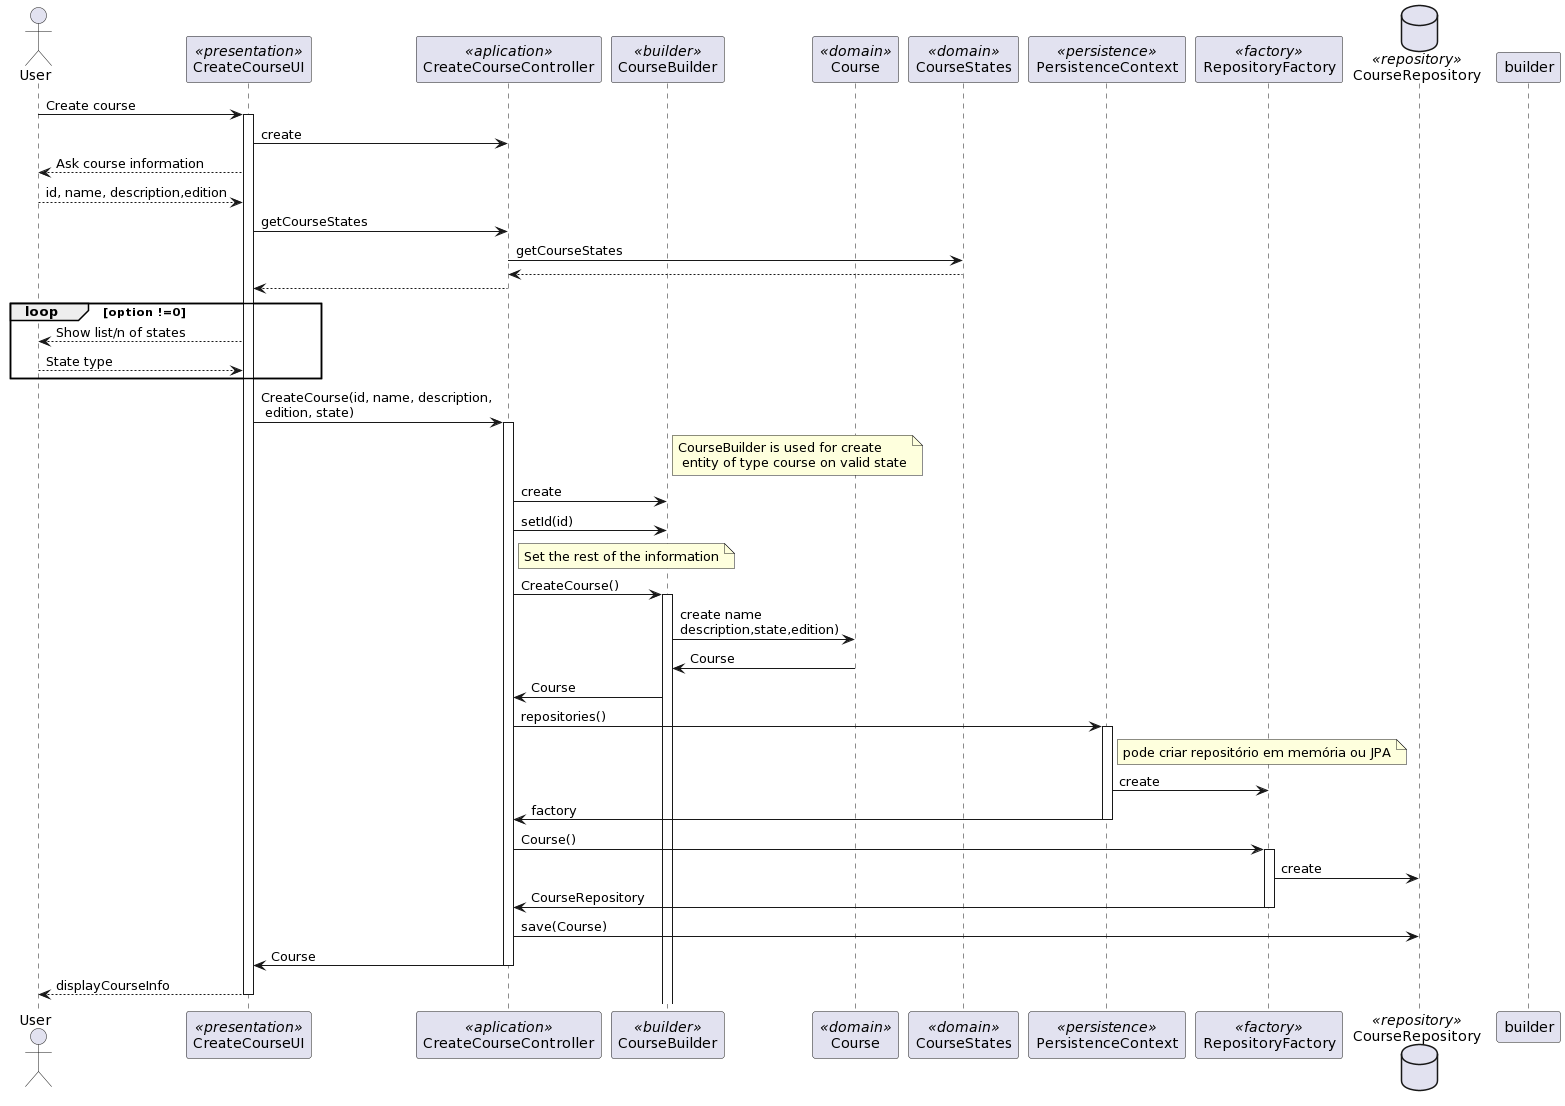
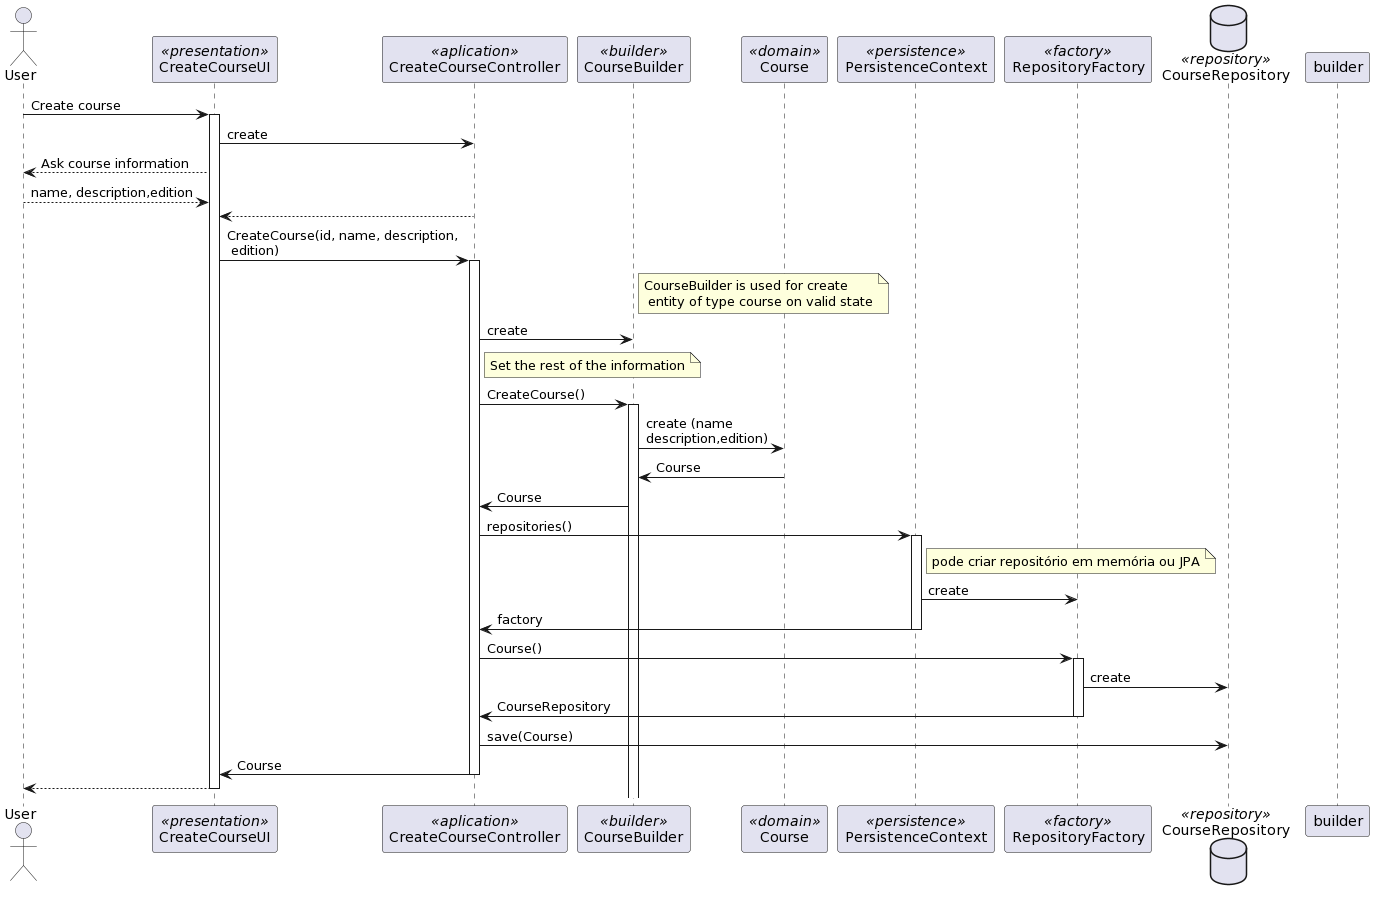
[SPRINTB][US1012] The documentation has been finalized, the US is finished

diff --git a/course.application/src/test/java/courseTest.java b/course.application/src/test/java/courseTest.java
@@ -13,15 +13,14 @@ public class courseTest {
     private String description2 = "Description 2";
     private String edition1 = "2022-2023";
     private String edition2 = "2021-2022";
-    private String state1 = "Open";
-    private String state2 = "Close";
+    private String state1 = "Close";
 
     private Course course1 = new CourseBuilder().descriptioned(Description.valueOf(description1)).named(Designation.valueOf(name1))
-            .edition(CourseEdition.valueOf(edition1)).state(CourseState.valueOf(state1)).build();
+            .edition(CourseEdition.valueOf(edition1)).build();
     private Course course2 = new CourseBuilder().descriptioned(Description.valueOf(description2)).named(Designation.valueOf(name2))
-            .edition(CourseEdition.valueOf(edition2)).state(CourseState.valueOf(state2)).build();
+            .edition(CourseEdition.valueOf(edition2)).build();
     private Course course3 = new CourseBuilder().descriptioned(Description.valueOf(description2)).named(Designation.valueOf(name2))
-            .edition(CourseEdition.valueOf(edition2)).state(CourseState.valueOf(state2)).build();
+            .edition(CourseEdition.valueOf(edition2)).build();
 
 
     @Test
@@ -45,7 +44,7 @@ public class courseTest {
     @Test
     public void testIfStateIsCorrect() {
         assertEquals(state1, course1.state().toString());
-        assertEquals(state2, course3.state().toString());
+        assertEquals(state1, course3.state().toString());
     }
 
     @Test

diff --git a/course.domain/src/main/java/eCourse/domain/CourseBuilder.java b/course.domain/src/main/java/eCourse/domain/CourseBuilder.java
@@ -14,7 +14,6 @@ public class CourseBuilder implements DomainFactory<Course> {
 
     private CourseEdition edition;
 
-    private CourseState state;
 
     public CourseBuilder named(final Designation name){
         this.name = name;
@@ -31,10 +30,6 @@ public class CourseBuilder implements DomainFactory<Course> {
         return this;
     }
 
-    public CourseBuilder state(final CourseState state){
-        this.state = state;
-        return this;
-    }
     private Course buildOrThrow() {
         // we will create the actual instance inside the builder during the building
         // process, but that is hidden from the client code. conceptually, the client
@@ -42,8 +37,8 @@ public class CourseBuilder implements DomainFactory<Course> {
         if (theCourse != null) {
             return theCourse;
         }
-        if (name != null && description != null && edition != null && state != null) {
-            theCourse = new Course(name, description,edition,state);
+        if (name != null && description != null && edition != null) {
+            theCourse = new Course(name, description,edition);
             return theCourse;
         }
         throw new IllegalStateException();

diff --git a/course.application/src/main/java/eCourse/course/application/CreateCourseController.java b/course.application/src/main/java/eCourse/course/application/CreateCourseController.java
@@ -30,10 +30,10 @@ public class CreateCourseController {
     }
 
     @Transactional
-    public Course createCourse (final String name, final String edition, final String description, final String state){
+    public Course createCourse (final String name, final String edition, final String description){
 
         final Course newCourse = new CourseBuilder().descriptioned(Description.valueOf(description)).named(Designation.valueOf(name))
-                .edition(CourseEdition.valueOf(edition)).state(CourseState.valueOf(state)).build();
+                .edition(CourseEdition.valueOf(edition)).build();
         return PersistenceContext.repositories().courses().save(newCourse);
     }
 

diff --git a/course.domain/src/main/java/eCourse/domain/Course.java b/course.domain/src/main/java/eCourse/domain/Course.java
@@ -27,12 +27,12 @@ public class Course implements AggregateRoot<Designation> {
     @Embedded
     private CourseState state;
 
-    protected Course (final Designation name, final Description description, final CourseEdition edition, CourseState state){
-        Preconditions.noneNull(name,description,edition,state);
+    protected Course (final Designation name, final Description description, final CourseEdition edition){
+        Preconditions.noneNull(name,description,edition);
 
         this.name = name;
         this.edition = edition;
-        this.state= state;
+        this.state= new CourseState("Close");
         this.description = description;
     }
 

diff --git a/eCourse.bootstrappers/src/main/java/eCourse/infrastructure/bootstrapers/demo/CourseBootstrapper.java b/eCourse.bootstrappers/src/main/java/eCourse/infrastructure/bootstrapers/demo/CourseBootstrapper.java
@@ -17,7 +17,7 @@ public class CourseBootstrapper implements Action {
 
     private boolean RegisterCourse(final String description, final String name, final String edition, final String state){
         final Course newCourse = new CourseBuilder().descriptioned(Description.valueOf(description)).named(Designation.valueOf(name))
-                .edition(CourseEdition.valueOf(edition)).state(CourseState.valueOf(state)).build();
+                .edition(CourseEdition.valueOf(edition)).build();
         PersistenceContext.repositories().courses().save(newCourse);
         return true;
     }

diff --git a/eCourse.app.backoffice.console/src/main/java/eCourse/app/backoffice/console/presentation/courses/CreateCourseUI.java b/eCourse.app.backoffice.console/src/main/java/eCourse/app/backoffice/console/presentation/courses/CreateCourseUI.java
@@ -13,11 +13,8 @@ public class CreateCourseUI extends AbstractUI {
         final String edition = Console.readNonEmptyLine("Edition","The edition should not be empty");
         final String description = Console.readNonEmptyLine("Description","The description should not be empty");
 
-        // this is a default state for when create a course
-        String state = "Open";
 
-
-        theController.createCourse(name,edition,description,state);
+        theController.createCourse(name,edition,description);
         return false;
     }
 

diff --git a/eCourse.app.backoffice.console/src/main/java/eCourse/app/backoffice/console/presentation/courses/CoursesPrinter.java b/eCourse.app.backoffice.console/src/main/java/eCourse/app/backoffice/console/presentation/courses/CoursesPrinter.java
@@ -6,7 +6,7 @@ import eapli.framework.visitor.Visitor;
 public class CoursesPrinter implements  Visitor<Course> {
     @Override
     public void visit(final Course visitee) {
-        System.out.printf("%-20s%-20s%-20s%-4s", visitee.designation(), visitee.edition(),
+        System.out.printf("%-39s%-20s%-40s%-4s", visitee.designation(), visitee.edition(),
                 visitee.description(), visitee.state());
     }
 }

diff --git a/eCourse.app.backoffice.console/src/main/java/eCourse/app/backoffice/console/presentation/courses/ListCoursesUI.java b/eCourse.app.backoffice.console/src/main/java/eCourse/app/backoffice/console/presentation/courses/ListCoursesUI.java
@@ -27,7 +27,7 @@ public class ListCoursesUI extends AbstractListUI<Course> {
 
     @Override
     public String listHeader() {
-        return String.format("# %-20s%-20s%-20s%-4s", "NAME", "EDITION", "DESCRIPTION", "STATE");
+        return String.format("# %-40s%-20s%-40s%-4s", "NAME", "EDITION", "DESCRIPTION", "STATE");
     }
 
     @Override

diff --git a/docs/SPRINT B/US1002- Create a Course/readme.md b/docs/SPRINT B/US1002- Create a Course/readme.md
@@ -17,53 +17,95 @@
 
 **input Data:**
 * Typed Data:
-    * id
     * name
     * description
-    * state
     * edition
   
 **Output Data:**
 * Course is created and save on repository
 
+## Class diagram
+![a class diagram](cd-1002.png "A Class Diagram")
+## Use case diagram
+![use case diagram](uc-1002.png "A Use Case Diagram")
+## System sequence diagram
+![use case diagram](ssd-1002.png "A system sequence Diagram")
 ## 4. Design
 
 *In this sections, the team should present the solution design that was adopted to solve the requirement. This should include, at least, a diagram of the realization of the functionality (e.g., sequence diagram), a class diagram (presenting the classes that support the functionality), the identification and rational behind the applied design patterns and the specification of the main tests used to validade the functionality.*
 *Rational*
 
-| Interaction ID | Question: Which class is responsible for... | Answer| Justification (with patterns)|
-|:---------------|:--------------------------------------------|:------|:-----------------------------|
-| Step 1| ... interacting with the actor?             | CreateCourseUI| |
-| | ... coordinating the US?                    |CreateCourseController| |
-| Step 2| Create Course?| CourseBuilder| Create a course on a valid state|
-|Step 3| Saving the course| PercistenceContext| |
-|Step 4| show course information for user| CreateCourseUI| |
+| Interaction ID | Question: Which class is responsible for... | Answer                                      | Justification (with patterns)|
+|:---------------|:--------------------------------------------|:--------------------------------------------|:-----------------------------|
+| Step 1| ... interacting with the actor?             | CreateCourseUI                              | |
+| | ... coordinating the US?                    | CreateCourseController                      | |
+| Step 2| Create Course?| CourseBuilder                               | Create a course on a valid state|
+|Step 3| Saving the course| CreateCourseController / PersistenceContext | |
+|Step 4| show course information for user| CreateCourseUI                              | |
 
 
 
 ### 4.1. Realization
 
-### 4.2. Class Diagram
+### 4.2. Sequence diagram
 
-![a class diagram](sd-1002.png "A Class Diagram")
+![a sequence diagram](sd-1002.png "A Sequence Diagram")
 
 ### 4.3. Applied Patterns
 
+Na implementacao desta US foram utilizados os seguintes padroes DDD:
+- **Factory** : A fabrica "Repository factory" e responsavel por criar instancias do repositorio "CourseRepository"
+- **Builder** : Ao utilizar o "CourseBuilder" garanto que o objecto curso e sempre criado num estado valido.
+- **Repository** : O "CourseRepository" e responsavel por persistir os dados na base de dados.
+- **Entity** : O "Course" e uma entidade que tem atributos propios ("name, state, edition e description).
 ### 4.4. Tests
 
-**CreateCourseWithoutId:** *Verifies that it is not possible to create a Course without id.*
-**CreateCourseWithoutName:** *Verifies that it is not possible to create a Course without name.*
-**CreateCourseWithoutDescription:** *Verifies that it is not possible to create a Course without description.*
-**CreateCourseWithoutEdition:** *Verifies that it is not possible to create a Course without edition.*
-**CreateCourseWithoutState:** *Verifies that it is not possible to create a Course without state.*
-**CreateCourseWithAllParameters:** *Verifies that it is possible to create a Course with all parameters fill.*
-
+**testIfDesignationIsCorrect:** *Checks that the course name is correct.*
 
 ```
-@Test(expected = IllegalArgumentException.class)
-public void ensureNullIsNotAllowed() {
-	Example instance = new Example(null, null);
-}
+    @Test
+    public void testIfDesignationIsCorrect() {
+        assertEquals(name1, course1.designation().toString());
+        assertEquals(name2, course3.designation().toString());
+    }
+````
+
+**testIfDescriptionIsCorrect:** *Checks that the course description is correct.*
+```
+    @Test
+    public void testIfDescriptionIsCorrect() {
+        assertEquals(description1, course1.description().toString());
+        assertEquals(description2, course3.description().toString());
+    }
+````
+
+**testIfEditionIsCorrect:** *Checks that the course edition is correct.*
+
+```
+    @Test
+    public void testIfEditionIsCorrect() {
+        assertEquals(edition1, course1.edition().toString());
+        assertEquals(edition2, course3.edition().toString());
+    }
+````
+**testIfStateIsCorrect:** *Checks that the course state is correct.*
+
+```
+    @Test
+    public void testIfStateIsCorrect() {
+        assertEquals(state1, course1.state().toString());
+        assertEquals(state1, course3.state().toString());
+    }
+````
+**testIFCourseIsEqualToAnotherCourse:** *Checks if course is equal to another.*
+
+```
+    @Test
+    public void testIFCourseIsEqualToAnotherCourse() {
+        assertTrue(course2.sameAs(course2));
+        assertFalse(course2.sameAs(course3));
+        assertFalse(course1.sameAs(course3));
+    }
 ````
 
 ## 5. Implementation
